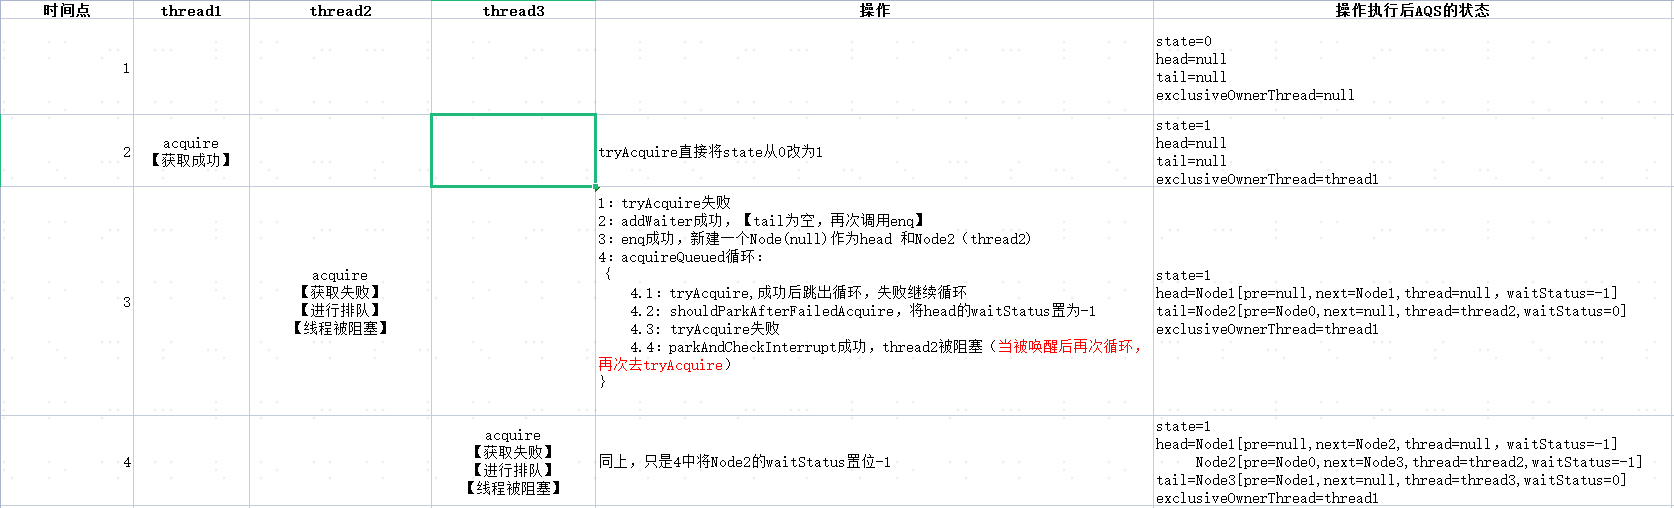
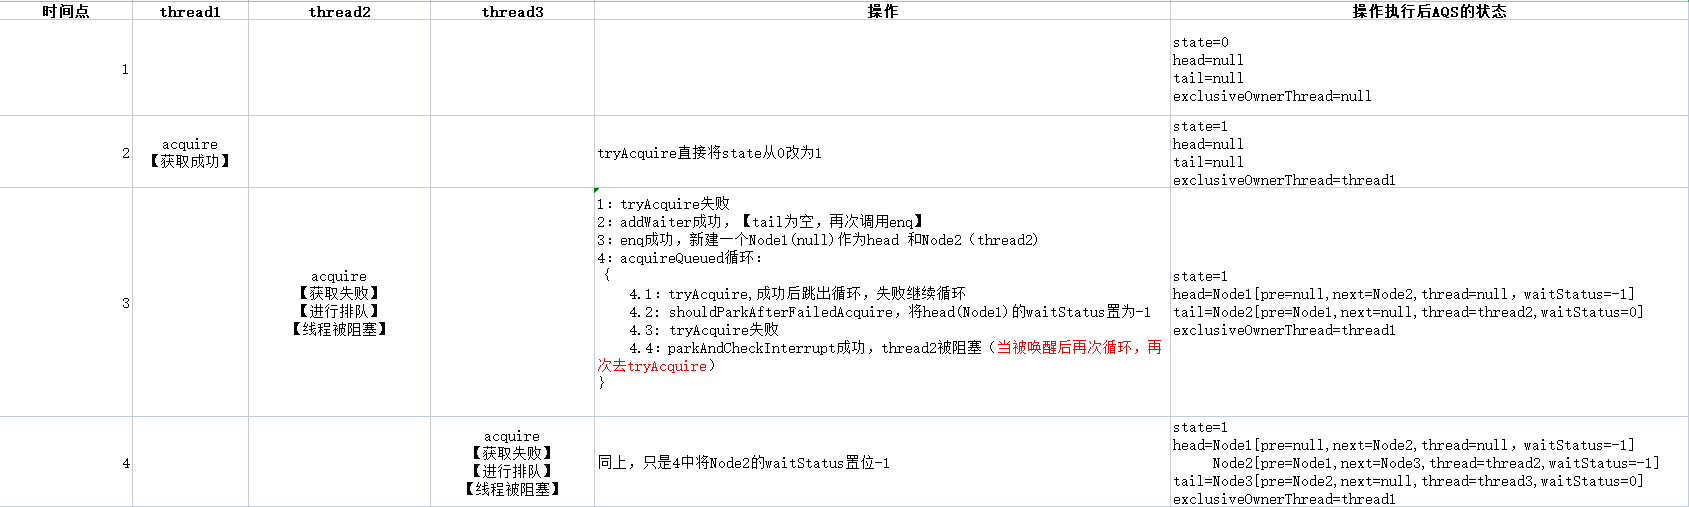
AQS修改部分错误

diff --git a/src/main/java/com/wcn/jdk/example/lock/ReentrantLockTest.java b/src/main/java/com/wcn/jdk/example/lock/ReentrantLockTest.java
@@ -6,8 +6,8 @@ import java.util.concurrent.locks.ReentrantLock;
 public class ReentrantLockTest {
 
     public static void main(String[] args) {
-//        normal();
-        testCancel();
+        normal();
+//        testCancel();
     }
 
     public static void testCancel(){

diff --git a/src/main/java/doc/lock/02_AQS_2_详解（独占模式）.md b/src/main/java/doc/lock/02_AQS_2_详解（独占模式）.md
@@ -388,7 +388,7 @@ public abstract class AbstractQueuedSynchronizer
             }
         } finally {
             //这里什么时候会调用到cancelAcquire呢，看上面的try块代码中，如果正常return了，failed肯定为false。
-           //failed默认值为true，所以应该是没有正常获取成功，抛出异常退出了。只有tryAcquire方法可能会抛出一场，
+           //failed默认值为true，所以应该是没有正常获取成功，抛出异常退出了。只有tryAcquire方法可能会抛出异常，
            //tryAcquire为子类实现的代码，我们自己都可以写一个类来实现，所以子类中是完全不可控的，一旦捕获到异常，就会执行cancelAcquire。
             if (failed)
                 cancelAcquire(node);
@@ -435,7 +435,7 @@ public abstract class AbstractQueuedSynchronizer
              * retry to make sure it cannot acquire before parking.
              * waitStatus 必须是0或者PROPAGATE（-3）。（这里的PROPAGATE状态就和doReleaseShared的逻辑相对应上了）
              * 表明需要一个信号，但是不要现在就进行park。
-             * 调用者需要再次尝试acquire，确保再park之前不能成功acquire。
+             * 调用者需要再次尝试acquire，确保在park之前不能成功acquire。
              */
             compareAndSetWaitStatus(pred, ws, Node.SIGNAL);
         }
@@ -676,7 +676,7 @@ public abstract class AbstractQueuedSynchronizer
                 //这个方法和acquire方法几乎完全一样，只是在这里的逻辑不同：
                 //acquire 如果被interrupt唤醒了，只是将interrupted变量置为了true，然后继续循环，
                 //但是此方法是直接抛出了异常中断循环，调用后续finally里的cancelAcquire方法。（该方法就比acquire方法更容易看出来cancelAcquire方法什么时候被调用执行了）
-                //这样做就可以及时的中断线程，不会再获取不到的时候一直等待着了。
+                //这样做就可以及时的中断线程，不会在获取不到的时候一直等待着了。
                throw new InterruptedException();
          }
       } finally {

diff --git a/src/main/java/doc/lock/02_AQS_4_实现类（独占模式）_ReentrantLock.md b/src/main/java/doc/lock/02_AQS_4_实现类（独占模式）_ReentrantLock.md
@@ -38,7 +38,7 @@
  * honor the fairness setting. It will succeed if the lock
  * is available even if other threads are waiting.
  * 
- * 此类的构造方法接收一个fairness的参数。当设置true是，在争用的情况下，
+ * 此类的构造方法接收一个fairness的参数。当设置true时，在争用的情况下，
  * 锁倾向于授予对等待时间最长的线程的访问权。否则，此锁不保证任何特定的访问顺序。
  * 与使用默认设置的程序相比，使用由多个线程访问的公平锁的程序可能显示较低的总体吞吐量（即较慢；通常较慢），
  * 但在获得锁和保证无饥饿的时间上差异较小。但是请注意，锁的公平性并不能保证线程调度的公平性。

diff --git a/src/main/java/doc/lock/02_AQS_3_实现类（独占模式）_Mutex.md b/src/main/java/doc/lock/02_AQS_3_实现类（独占模式）_Mutex.md
@@ -38,6 +38,7 @@ class Mutex implements Lock, java.io.Serializable {
         protected boolean tryRelease(int releases) {
             assert releases == 1; // Otherwise unused
             if (getState() == 0) throw new IllegalMonitorStateException();//如果当前状态是0，表示没有锁定，则抛出异常
+           //其实这里应该再次判断下持有者是否是当前线程，防止A获取了，但是B来释放了。此类只是注释中的一个简单示例而已。
             setExclusiveOwnerThread(null);//当前持有锁的线程设为null
             setState(0);//状态更新为0
             return true;
